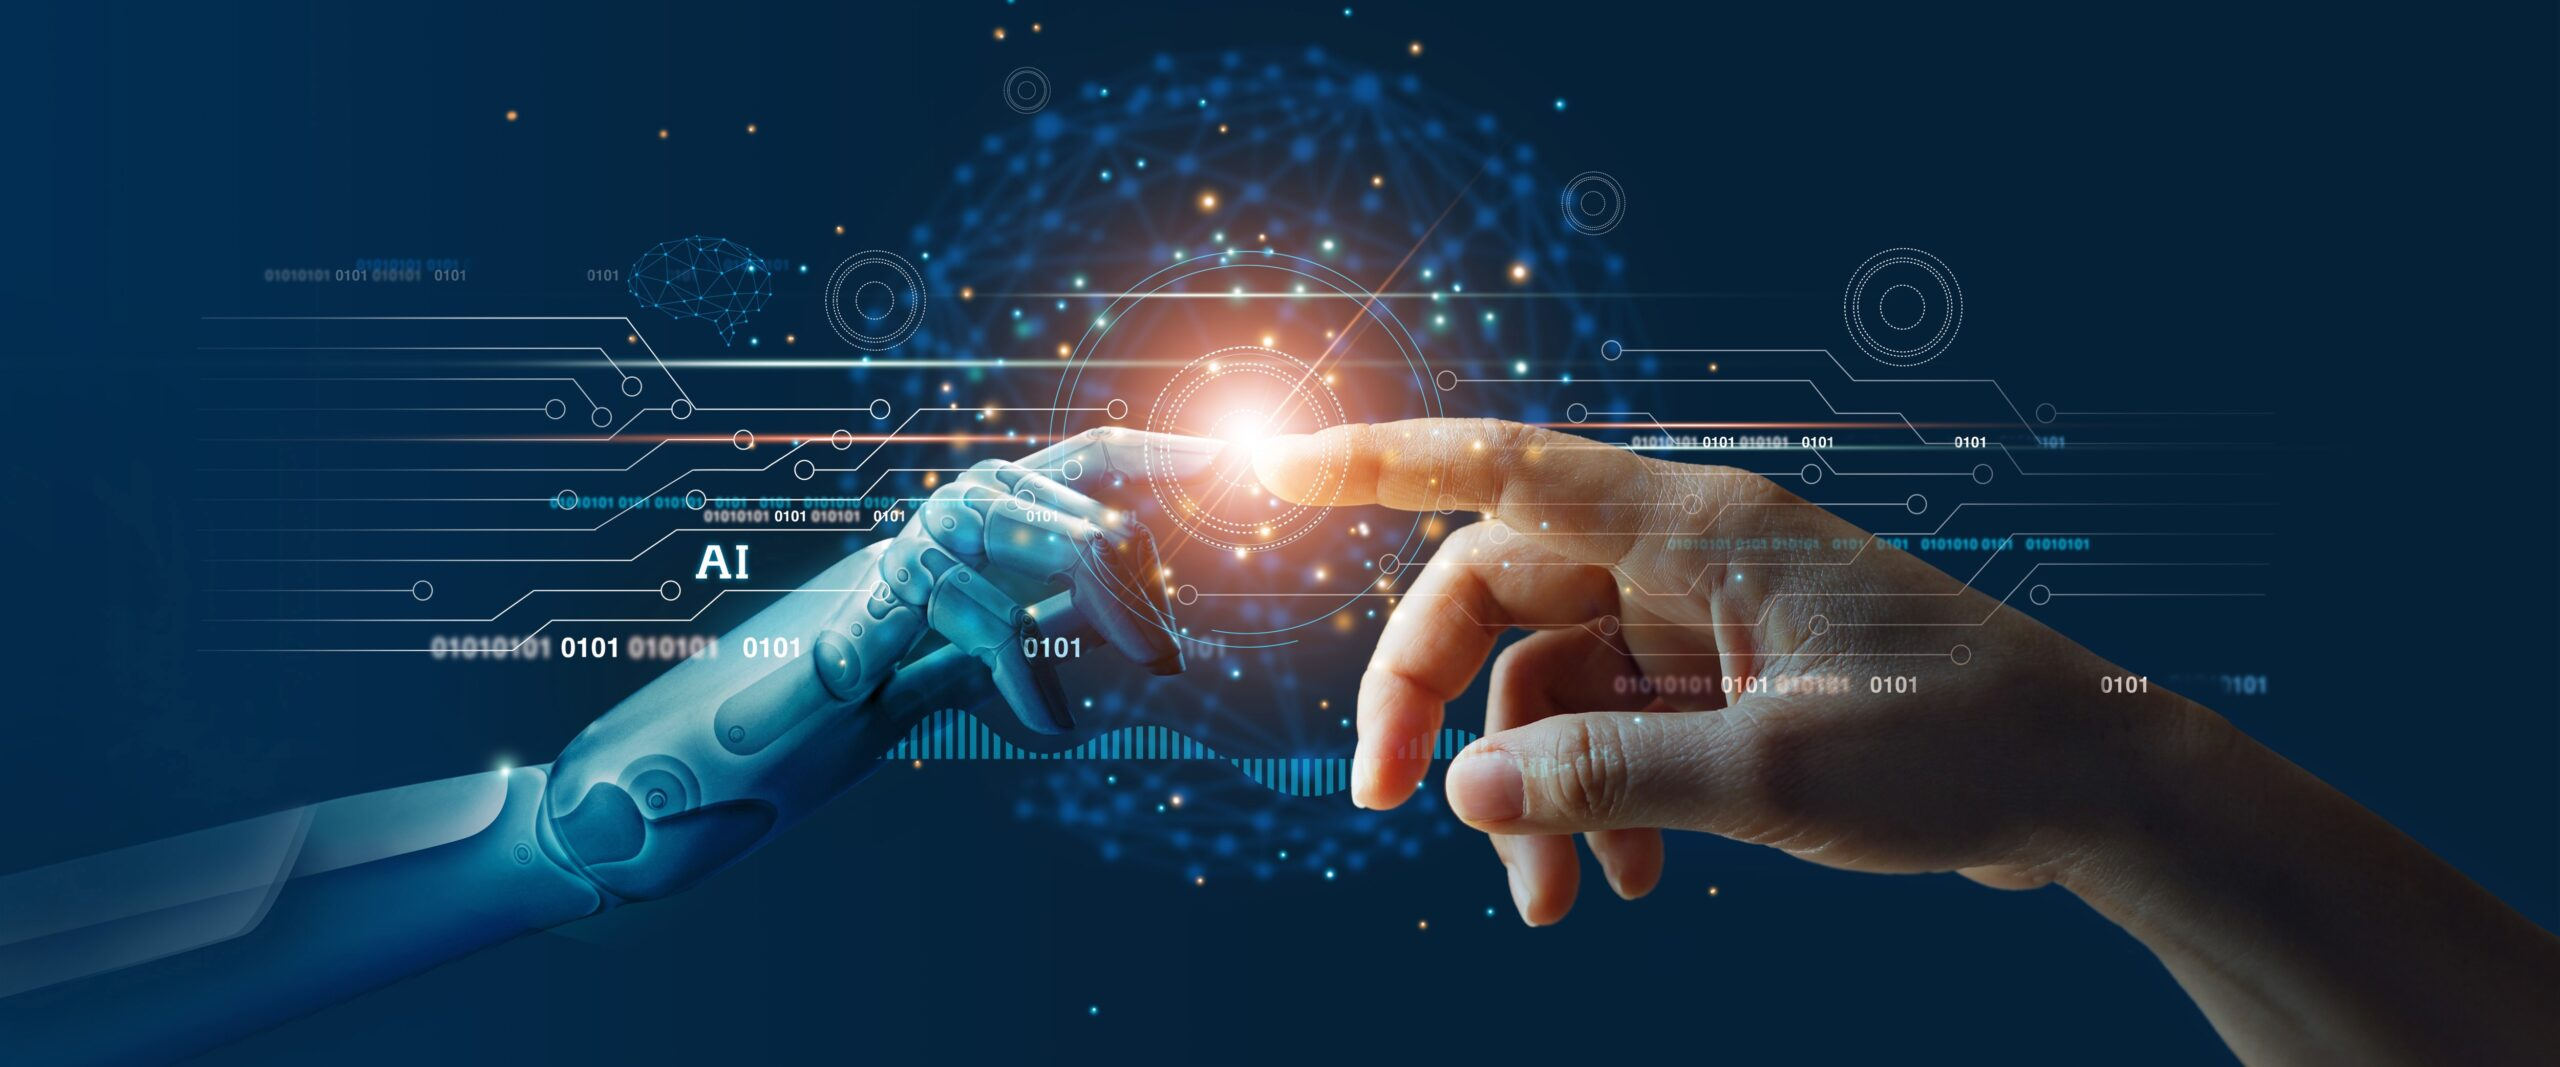
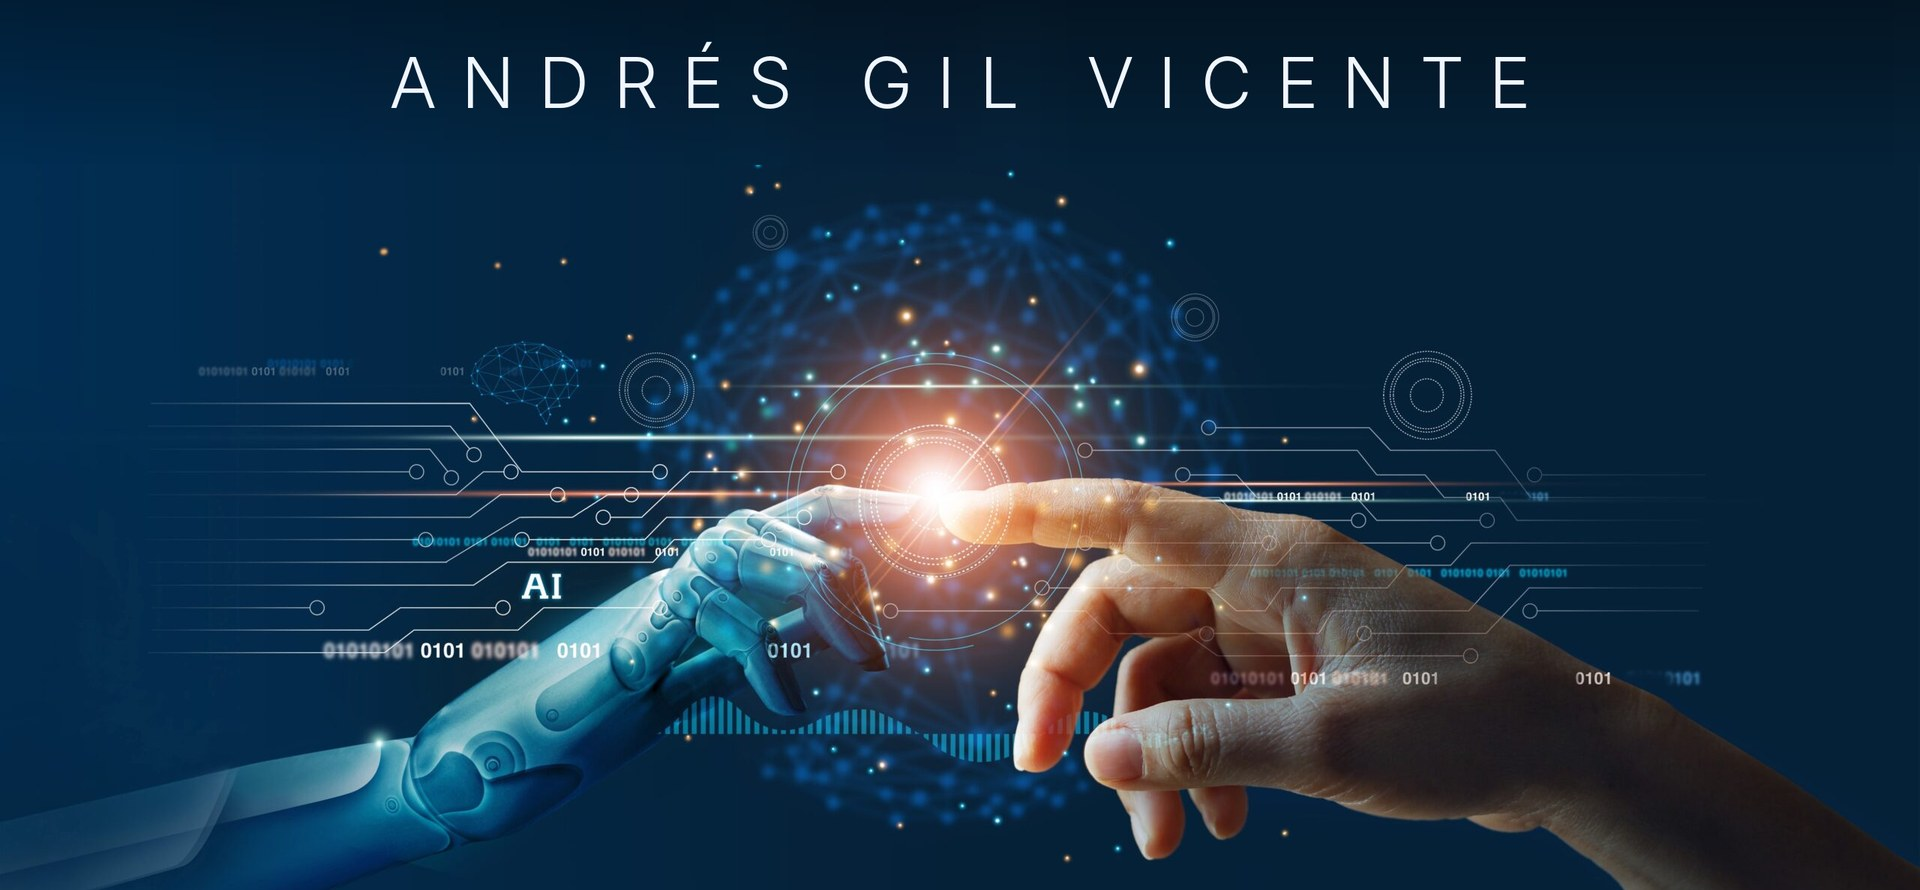
Update README.md

diff --git a/README.md b/README.md
@@ -1,52 +1,64 @@
 <div align="center">
 
-# Hi there, I'm Andrés Gil Vicente 👋
-
-<img src="Assets/banner_readme.jpeg" height="350" width="100%" style="object-fit: cover; border-radius: 10px;" alt="Banner Math AI"/>
+<img src="Assets/banner_readme.jpeg" height="350" width="100%" style="object-fit: cover; border-radius: 10px;" alt="Andrés Gil Vicente"/>
 
 ---
 
-### 🚀 Mathematical Engineering & AI Student - ICAI
+### Mathematical Engineering & AI Student - ICAI
 
-Currently focusing on **Deep Learning**, **Quantitative Finance**, and **Cloud Computing**.  
+Currently focusing on **Cloud Computing** and **Agentic AI**.  
 I combine strong mathematical foundations with advanced programming to solve complex real-world problems.
 
 ---
 
-### 🧠 Skills & Tech Stack
+### Skills & Tech Stack
+
+#### Cloud & Data Engineering
+<p align="center">
+  <img src="https://img.shields.io/badge/AWS-232F3E?style=for-the-badge&logo=amazon-aws&logoColor=white" />
+  <img src="https://img.shields.io/badge/Databricks-FF3621?style=for-the-badge&logo=databricks&logoColor=white" />
+  <img src="https://img.shields.io/badge/Apache_Spark-E25A1C?style=for-the-badge&logo=apachespark&logoColor=white" />
+  <img src="https://img.shields.io/badge/Docker-2496ED?style=for-the-badge&logo=docker&logoColor=white" />
+  <img src="https://img.shields.io/badge/Kubernetes-326CE5?style=for-the-badge&logo=kubernetes&logoColor=white" />
+</p>
+
+#### Databases
+<p align="center">
+  <img src="https://img.shields.io/badge/SQL-4479A1?style=for-the-badge&logo=postgresql&logoColor=white" />
+  <img src="https://img.shields.io/badge/MongoDB-47A248?style=for-the-badge&logo=mongodb&logoColor=white" />
+  <img src="https://img.shields.io/badge/Neo4j-4581C3?style=for-the-badge&logo=neo4j&logoColor=white" />
+  <img src="https://img.shields.io/badge/Redis-DC382D?style=for-the-badge&logo=redis&logoColor=white" />
+</p>
+
+#### AI, Machine Learning & Agents
+<p align="center">
+  <img src="https://img.shields.io/badge/PyTorch-EE4C2C?style=for-the-badge&logo=pytorch&logoColor=white" />
+  <img src="https://img.shields.io/badge/Scikit_Learn-F7931E?style=for-the-badge&logo=scikit-learn&logoColor=white" />
+  <img src="https://img.shields.io/badge/LangChain-1C3C3C?style=for-the-badge&logo=langchain&logoColor=white" />
+  <img src="https://img.shields.io/badge/LangGraph-1C3C3C?style=for-the-badge&logo=langchain&logoColor=white" />
+  <img src="https://img.shields.io/badge/FastAPI-009688?style=for-the-badge&logo=fastapi&logoColor=white" />
+  <img src="https://img.shields.io/badge/FastMCP-000000?style=for-the-badge&logoColor=white" />
+</p>
 
 #### Programming Languages
 <p align="center">
   <img src="https://img.shields.io/badge/Python-3776AB?style=for-the-badge&logo=python&logoColor=white" />
+  <img src="https://img.shields.io/badge/JavaScript-F7DF1E?style=for-the-badge&logo=javascript&logoColor=black" />
   <img src="https://img.shields.io/badge/C%23-239120?style=for-the-badge&logo=c-sharp&logoColor=white" />
   <img src="https://img.shields.io/badge/MATLAB-0076A8?style=for-the-badge&logo=mathworks&logoColor=white" />
   <img src="https://img.shields.io/badge/R-276DC3?style=for-the-badge&logo=r&logoColor=white" />
-  <img src="https://img.shields.io/badge/SQL-4479A1?style=for-the-badge&logo=postgresql&logoColor=white" />
 </p>
 
-#### Artificial Intelligence & Data Science
+#### Tools & Analytics
 <p align="center">
-  <img src="https://img.shields.io/badge/PyTorch-EE4C2C?style=for-the-badge&logo=pytorch&logoColor=white" />
-  <img src="https://img.shields.io/badge/TensorFlow-FF6F00?style=for-the-badge&logo=tensorflow&logoColor=white" />
-  <img src="https://img.shields.io/badge/Scikit_Learn-F7931E?style=for-the-badge&logo=scikit-learn&logoColor=white" />
-  <img src="https://img.shields.io/badge/Pandas-150458?style=for-the-badge&logo=pandas&logoColor=white" />
-  <img src="https://img.shields.io/badge/NumPy-013243?style=for-the-badge&logo=numpy&logoColor=white" />
-  <img src="https://img.shields.io/badge/OpenCV-5C3EE8?style=for-the-badge&logo=opencv&logoColor=white" />
-</p>
-
-#### Tools, Cloud & Visualization
-<p align="center">
-  <img src="https://img.shields.io/badge/AWS-232F3E?style=for-the-badge&logo=amazon-aws&logoColor=white" />
-  <img src="https://img.shields.io/badge/Docker-2496ED?style=for-the-badge&logo=docker&logoColor=white" />
   <img src="https://img.shields.io/badge/Git-F05032?style=for-the-badge&logo=git&logoColor=white" />
   <img src="https://img.shields.io/badge/Tableau-E97627?style=for-the-badge&logo=tableau&logoColor=white" />
   <img src="https://img.shields.io/badge/Power_BI-F2C811?style=for-the-badge&logo=powerbi&logoColor=black" />
-  <img src="https://img.shields.io/badge/Unity-000000?style=for-the-badge&logo=unity&logoColor=white" />
 </p>
 
 ---
 
-### 🏆 Featured Projects
+### Featured Projects
 
 <table align="center">
   <tr>
@@ -55,19 +67,19 @@ I combine strong mathematical foundations with advanced programming to solve com
     <th>Stack</th>
   </tr>
   <tr>
-    <td><b>🎾 <a href="https://github.com/andresgilvicente/padel-ai-system">Padel AI System</a></b></td>
-    <td>Autonomous video-referee using Computer Vision to detect faults and validate serves in real-time.</td>
+    <td><b><a href="https://github.com/andresgilvicente/padel-ai-system">Padel AI System</a></b></td>
+    <td>Autonomous chair umpire for padel. Validates serves (valid or fault) and enables secure access through geometric pattern recognition with a mobile camera.</td>
     <td><code>YOLOv8</code> <code>OpenCV</code> <code>Streamlit</code></td>
   </tr>
   <tr>
-    <td><b>🏥 <a href="https://github.com/andresgilvicente/Hospital-Emergency-Energy-Optimization">Hospital Energy Optimization</a></b></td>
-    <td>Multi-Objective Optimization framework for managing critical hospital power supply during catastrophic blackouts.</td>
-    <td><code>Pyomo</code> <code>Multi-Goal</code> <code>MILP</code> <code>Optimization</code> </td>
+    <td><b><a href="https://github.com/andresgilvicente/ai-financial-news-alerts">AI Financial News Alerts</a></b></td>
+    <td>NLP and Deep Learning course project. Generates financial alerts from news text and optional chart images, with entity recognition, sentiment analysis and chart captioning.</td>
+    <td><code>PyTorch</code> <code>BiLSTM-CRF</code> <code>DePlot</code> <code>Qwen2.5</code></td>
   </tr>
   <tr>
-    <td><b>🎓 <a href="https://github.com/andresgilvicente/student-performance-ML-predictor">Student Performance Prediction</a></b></td>
-    <td>Predictive model analyzing socioeconomic factors to forecast student final academic performance.</td>
-    <td><code>Scikit-learn</code> <code>Pandas</code> <code>NumPy</code></td>
+    <td><b><a href="https://github.com/andresgilvicente/aws-crypto-medallion-pipeline">AWS Crypto Medallion Pipeline</a></b></td>
+    <td>End-to-end crypto data platform on AWS. Bronze, Silver and Gold lakehouse with Glue, S3 and Athena, plus real-time VWAP streaming.</td>
+    <td><code>S3</code> <code>Glue</code> <code>Athena</code> <code>Kafka</code> <code>Spark</code> <code>Timestream</code></td>
   </tr>
 </table>
 
